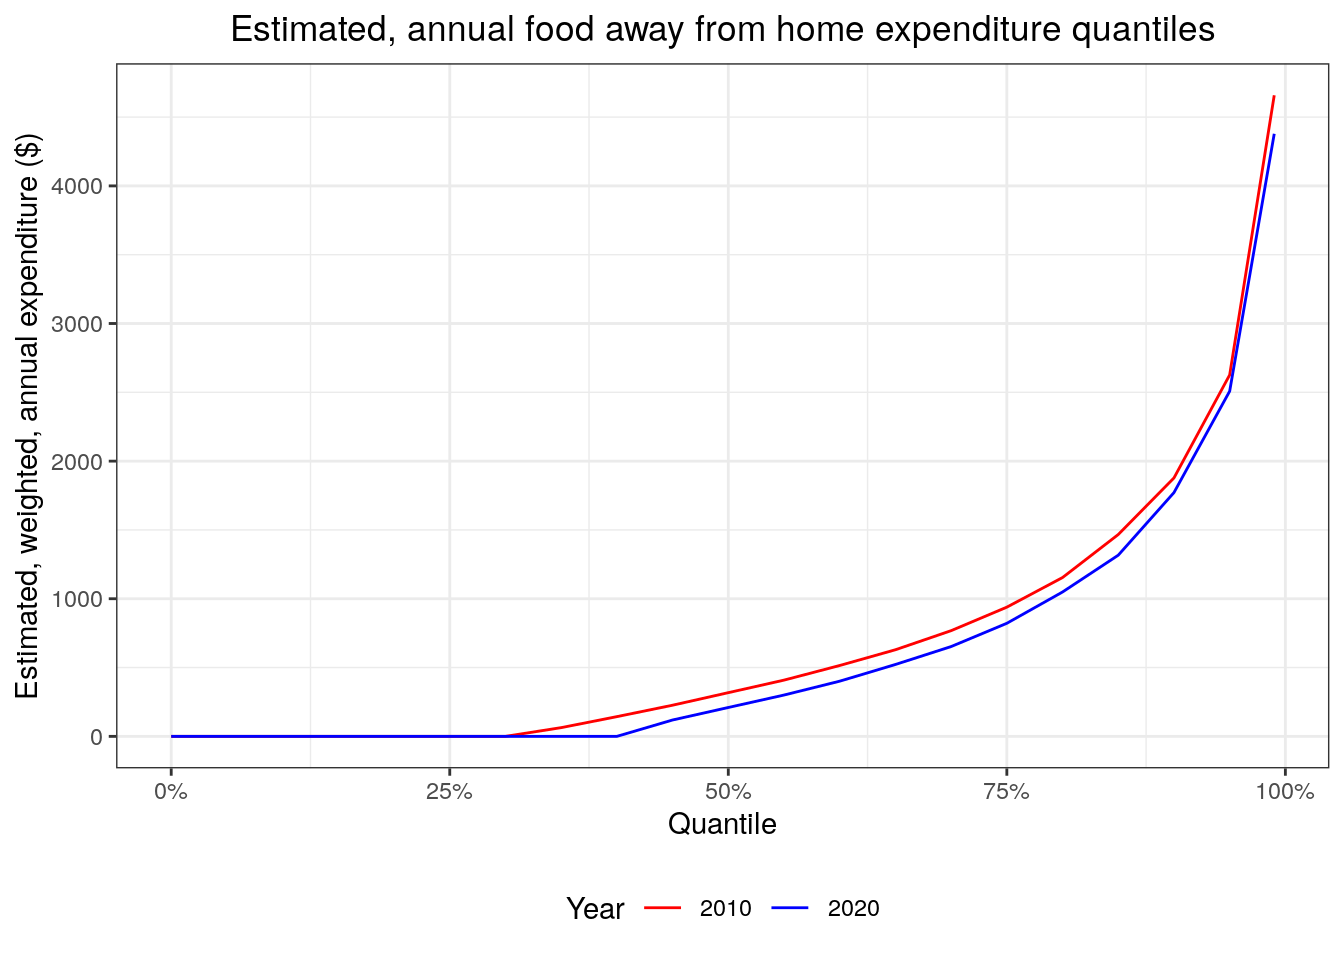
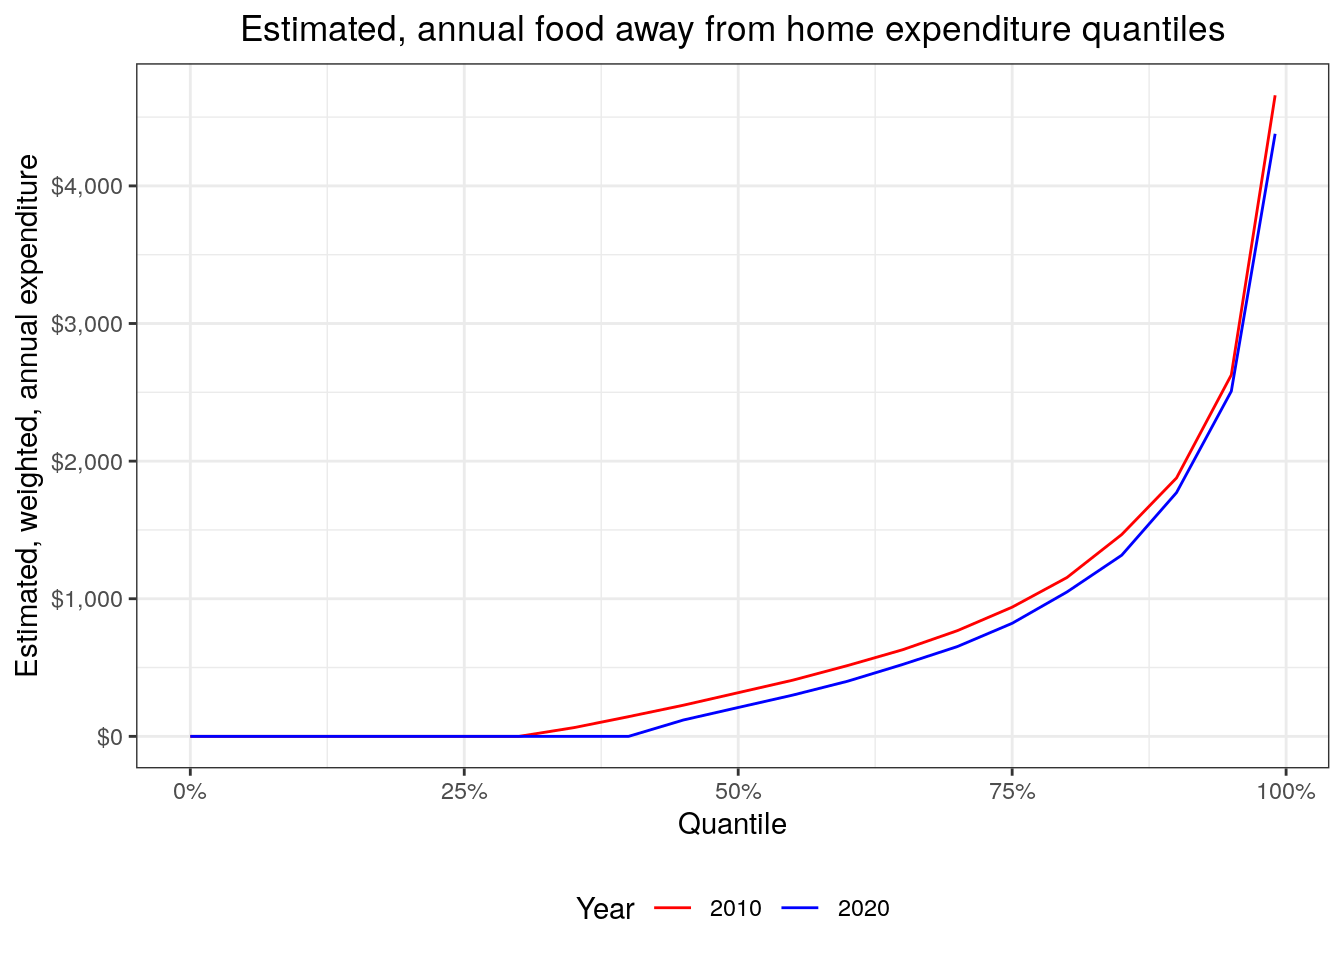
Updated plots

diff --git a/cepumd.html b/cepumd.html
@@ -553,7 +553,7 @@ only be necessary temporarily.</li>
 install and load the necessary pacakges.</p>
 <pre class="r"><code>
 # Store a vector of names of additional packages to be used
-pkgs &lt;- c(&quot;tidyverse&quot;, &quot;devtools&quot;, &quot;readxl&quot;, &quot;knitr&quot;, &quot;blsR&quot;)
+pkgs &lt;- c(&quot;tidyverse&quot;, &quot;devtools&quot;, &quot;readxl&quot;, &quot;knitr&quot;, &quot;blsR&quot;, &quot;janitor&quot;)
 
 # Install packages from CRAN
 invisible(
@@ -1924,11 +1924,12 @@ food_away_means %&gt;% kable(booktabs = TRUE)</code></pre>
     position = position_dodge(0.75)
   ) +
   scale_fill_manual(values = c(&quot;red&quot;, &quot;blue&quot;)) +
+  scale_y_continuous(labels = scales::dollar) +
   labs(
     title =
       &quot;Estimated annual mean food away from home expenditures by CU size&quot;,
     x = &quot;CU size&quot;,
-    y = &quot;Estimated, weighted, annual mean expenditure ($)&quot;,
+    y = &quot;Estimated, weighted, annual mean expenditure&quot;,
     fill = &quot;Year&quot;
   ) +
   theme_bw() +
@@ -1982,11 +1983,12 @@ food_away_comp_quantiles %&gt;%
   geom_line() +
   scale_color_manual(values = c(&quot;red&quot;, &quot;blue&quot;)) +
   scale_x_continuous(labels = scales::percent) +
+  scale_y_continuous(labels = scales::dollar) +
   labs(
     title =
       &quot;Estimated, annual food away from home expenditure quantiles&quot;,
     x = &quot;Quantile&quot;,
-    y = &quot;Estimated, weighted, annual expenditure ($)&quot;,
+    y = &quot;Estimated, weighted, annual expenditure&quot;,
     color = &quot;Year&quot;
   ) +
   theme_bw() +
@@ -2706,9 +2708,10 @@ fam_type_utilities %&gt;% arrange(fam_type) %&gt;% kable(booktabs = TRUE)</code>
   geom_segment(aes(x = 0, xend = mean_exp, yend = fam_type)) +
   geom_point(color = &quot;red&quot;, size = 5) +
   scale_y_discrete(labels = function(x) str_wrap(x, width = 25)) +
+  scale_x_continuous(labels = scales::dollar) +
   labs(
     y = &quot;CU composition (FAM_TYPE)&quot;,
-    x = &quot;Estimated, weighted, annual mean expenditure ($)&quot;,
+    x = &quot;Estimated, weighted, annual mean expenditure&quot;,
     title =
       &quot;Estimated annual mean utilities expenditures by CU composition&quot;
   ) +
